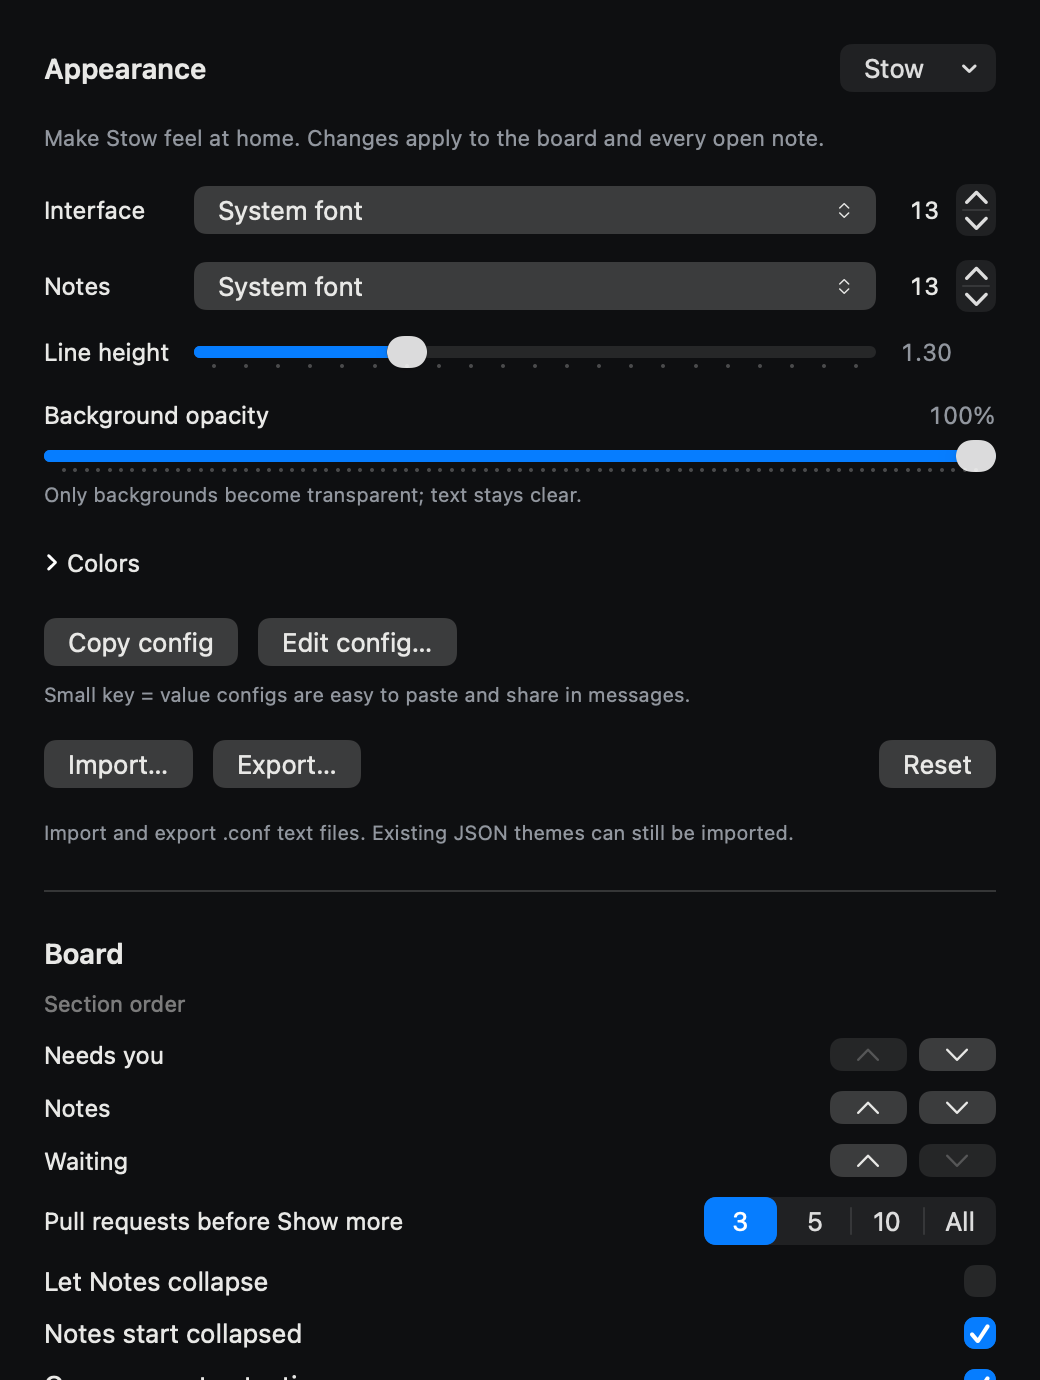
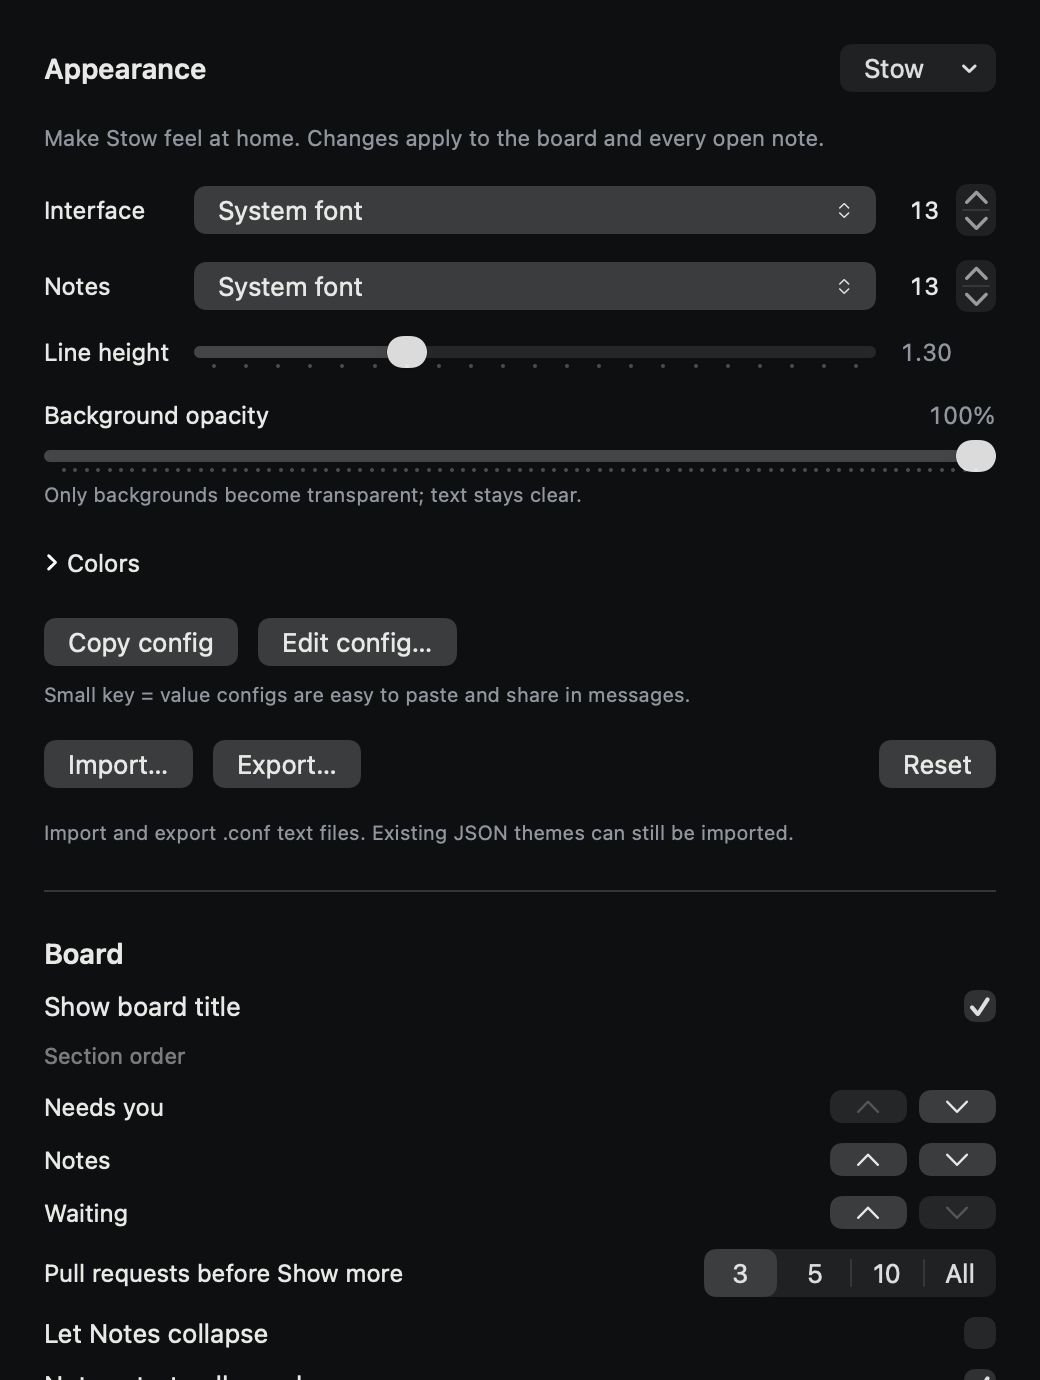
feat(board): let the header hide its title
Settings → Board → Show board title, on by default, hides the "Stow" title
while keeping the header icon. With profiles, that icon is where the profile
switcher goes.

diff --git a/Sources/StowCore/BoardLayout.swift b/Sources/StowCore/BoardLayout.swift
@@ -19,20 +19,24 @@ public struct BoardLayout: Codable, Equatable, Sendable {
     public var notesStartCollapsed: Bool
     /// Opening a board note closes the one that was open.
     public var oneNoteOpenAtATime: Bool
+    /// The board header shows its title beside the icon; the icon always stays.
+    public var showsTitle: Bool
 
     public init(
         order: [Section] = defaultOrder, visiblePullRequests: Int = defaultVisiblePullRequests,
-        notesCanCollapse: Bool = false, notesStartCollapsed: Bool = true, oneNoteOpenAtATime: Bool = true
+        notesCanCollapse: Bool = false, notesStartCollapsed: Bool = true, oneNoteOpenAtATime: Bool = true,
+        showsTitle: Bool = true
     ) {
         self.order = Self.normalized(order)
         self.visiblePullRequests = visiblePullRequests
         self.notesCanCollapse = notesCanCollapse
         self.notesStartCollapsed = notesStartCollapsed
         self.oneNoteOpenAtATime = oneNoteOpenAtATime
+        self.showsTitle = showsTitle
     }
 
     private enum CodingKeys: String, CodingKey {
-        case order, visiblePullRequests, notesCanCollapse, notesStartCollapsed, oneNoteOpenAtATime
+        case order, visiblePullRequests, notesCanCollapse, notesStartCollapsed, oneNoteOpenAtATime, showsTitle
     }
 
     public init(from decoder: any Decoder) throws {
@@ -49,6 +53,7 @@ public struct BoardLayout: Codable, Equatable, Sendable {
         notesCanCollapse = try container.decodeIfPresent(Bool.self, forKey: .notesCanCollapse) ?? false
         notesStartCollapsed = try container.decodeIfPresent(Bool.self, forKey: .notesStartCollapsed) ?? true
         oneNoteOpenAtATime = try container.decodeIfPresent(Bool.self, forKey: .oneNoteOpenAtATime) ?? true
+        showsTitle = try container.decodeIfPresent(Bool.self, forKey: .showsTitle) ?? true
     }
 
     /// Moves a section up (negative) or down (positive) one place at a time; edges are left alone.

diff --git a/App/SettingsView.swift b/App/SettingsView.swift
@@ -113,6 +113,9 @@ private struct BoardSettingsView: View {
     var body: some View {
         VStack(alignment: .leading, spacing: 10) {
             Text("Board").font(.stow(size: 14, weight: .semibold))
+            SettingsToggle(
+                "Show board title",
+                isOn: Binding(get: { layout.showsTitle }, set: { store.setShowsBoardTitle($0) }))
             Text("Section order").font(.stow(size: 11)).foregroundStyle(.secondary)
             ForEach(Array(layout.order.enumerated()), id: \.element) { index, section in
                 HStack(spacing: 6) {
@@ -155,7 +158,7 @@ private struct BoardSettingsView: View {
                 isOn: Binding(get: { layout.oneNoteOpenAtATime }, set: { store.setOneNoteOpenAtATime($0) }))
             HStack {
                 Text(
-                    "Defaults: Needs you, Notes, Waiting; 3 pull requests per section; the Notes section stays open; notes start collapsed and open one at a time."
+                    "Defaults: title shown; Needs you, Notes, Waiting; 3 pull requests per section; the Notes section stays open; notes start collapsed and open one at a time."
                 )
                 .font(.stow(size: 11)).foregroundStyle(.secondary).fixedSize(horizontal: false, vertical: true)
                 Spacer()

diff --git a/Tests/StowCoreTests/BoardPreferencesTests.swift b/Tests/StowCoreTests/BoardPreferencesTests.swift
@@ -70,6 +70,7 @@ final class BoardPreferencesTests: XCTestCase {
         XCTAssertFalse(layout.notesCanCollapse)
         XCTAssertTrue(layout.notesStartCollapsed)
         XCTAssertTrue(layout.oneNoteOpenAtATime)
+        XCTAssertTrue(layout.showsTitle)
     }
 
     func testBoardLayoutKeepsEachKnownSectionOnceInSavedOrder() throws {
@@ -100,7 +101,8 @@ final class BoardPreferencesTests: XCTestCase {
         let url = try directory().appendingPathComponent("state.json")
         var original = fixture()
         original.boardLayout = BoardLayout(
-            order: [.notes, .waiting, .needsYou], visiblePullRequests: 10, notesCanCollapse: true)
+            order: [.notes, .waiting, .needsYou], visiblePullRequests: 10, notesCanCollapse: true,
+            showsTitle: false)
         try await StateRepository(url: url).save(original)
         let loaded = try await StateRepository(url: url).load()
         XCTAssertEqual(loaded.boardLayout, original.boardLayout)

diff --git a/App/BoardView.swift b/App/BoardView.swift
@@ -12,7 +12,9 @@ struct BoardView: View {
         VStack(spacing: 0) {
             HStack(spacing: 7) {
                 Image(systemName: "tray").font(.stow(size: 16, weight: .medium)).foregroundStyle(Color.stowMuted)
-                Text("Stow").font(.stow(size: 14, weight: .semibold))
+                if store.state.boardLayout.showsTitle {
+                    Text("Stow").font(.stow(size: 14, weight: .semibold))
+                }
                 Spacer()
                 if store.isRefreshing {
                     ProgressView().controlSize(.mini).scaleEffect(0.7).frame(width: 20)

diff --git a/App/AppStore.swift b/App/AppStore.swift
@@ -354,6 +354,11 @@ final class AppStore {
         lastExpandedNoteID = id
     }
 
+    func setShowsBoardTitle(_ shown: Bool) {
+        state.boardLayout.showsTitle = shown
+        changed()
+    }
+
     func setNotesStartCollapsed(_ collapsed: Bool) {
         state.boardLayout.notesStartCollapsed = collapsed
         changed()

diff --git a/README.md b/README.md
@@ -49,7 +49,7 @@ For a local package, unzip `Stow.zip` and move `Stow.app` to Applications. See [
 - Paste a canonical `https://github.com/example/project/pull/42` URL outside the editor to pin a pull request. Text following one URL becomes an attached note. Other or ambiguous text stays intact as a note.
 - Use the header pin to keep the board on top or let it sit behind other windows. Detached notes keep their own pin settings.
 - Detach a note from its actions menu. Use **Command-0** or the Dock icon to reopen the board.
-- The board shows **Needs you**, **Notes**, then **Waiting**. Section titles stay visible while you scroll, and each pull request section shows three cards before **Show more**. Click **Needs you** or **Waiting** to collapse it; Stow remembers the choice. Notes show as one-line rows: click one to open it, opening another closes it, and the pop-out button gives a note its own window. Change the order, the card count, and how notes open in Settings → **Board**.
+- The board shows **Needs you**, **Notes**, then **Waiting**. Section titles stay visible while you scroll, and each pull request section shows three cards before **Show more**. Click **Needs you** or **Waiting** to collapse it; Stow remembers the choice. Notes show as one-line rows: click one to open it, opening another closes it, and the pop-out button gives a note its own window. Change the order, the card count, how notes open, and whether the header shows the title in Settings → **Board**.
 - On first launch, Stow asks before using GitHub; change it later in Settings. Install [GitHub CLI](https://cli.github.com/) and authenticate outside Stow with `gh auth login --hostname github.com`. Stow uses that existing login; it does not extract or save a token. Use **Choose gh…** if automatic discovery fails.
 - Click a pull request to load details. Stow reads GitHub state; it does not merge, review, or modify pull requests.
 
